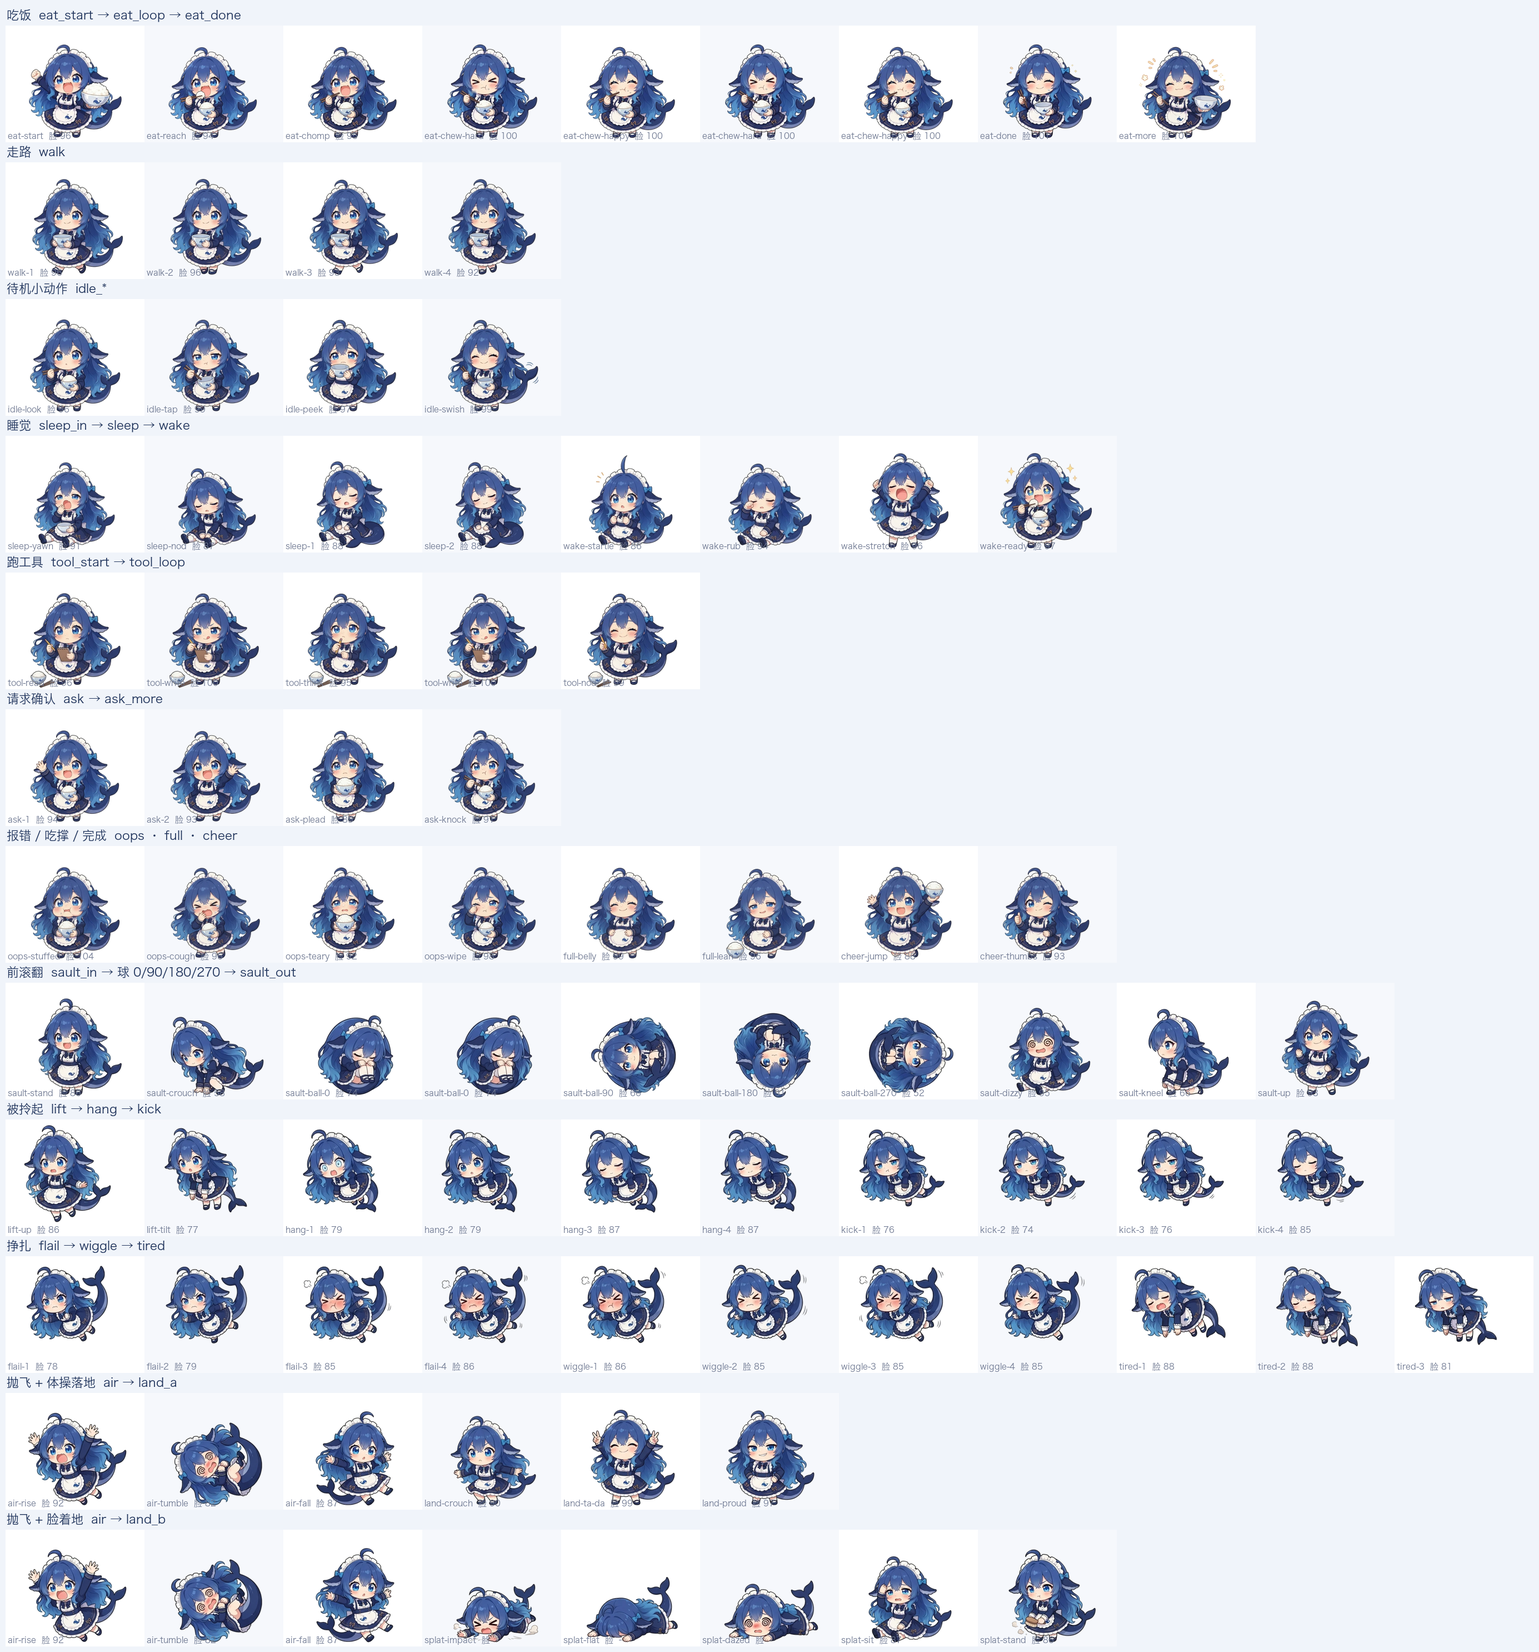
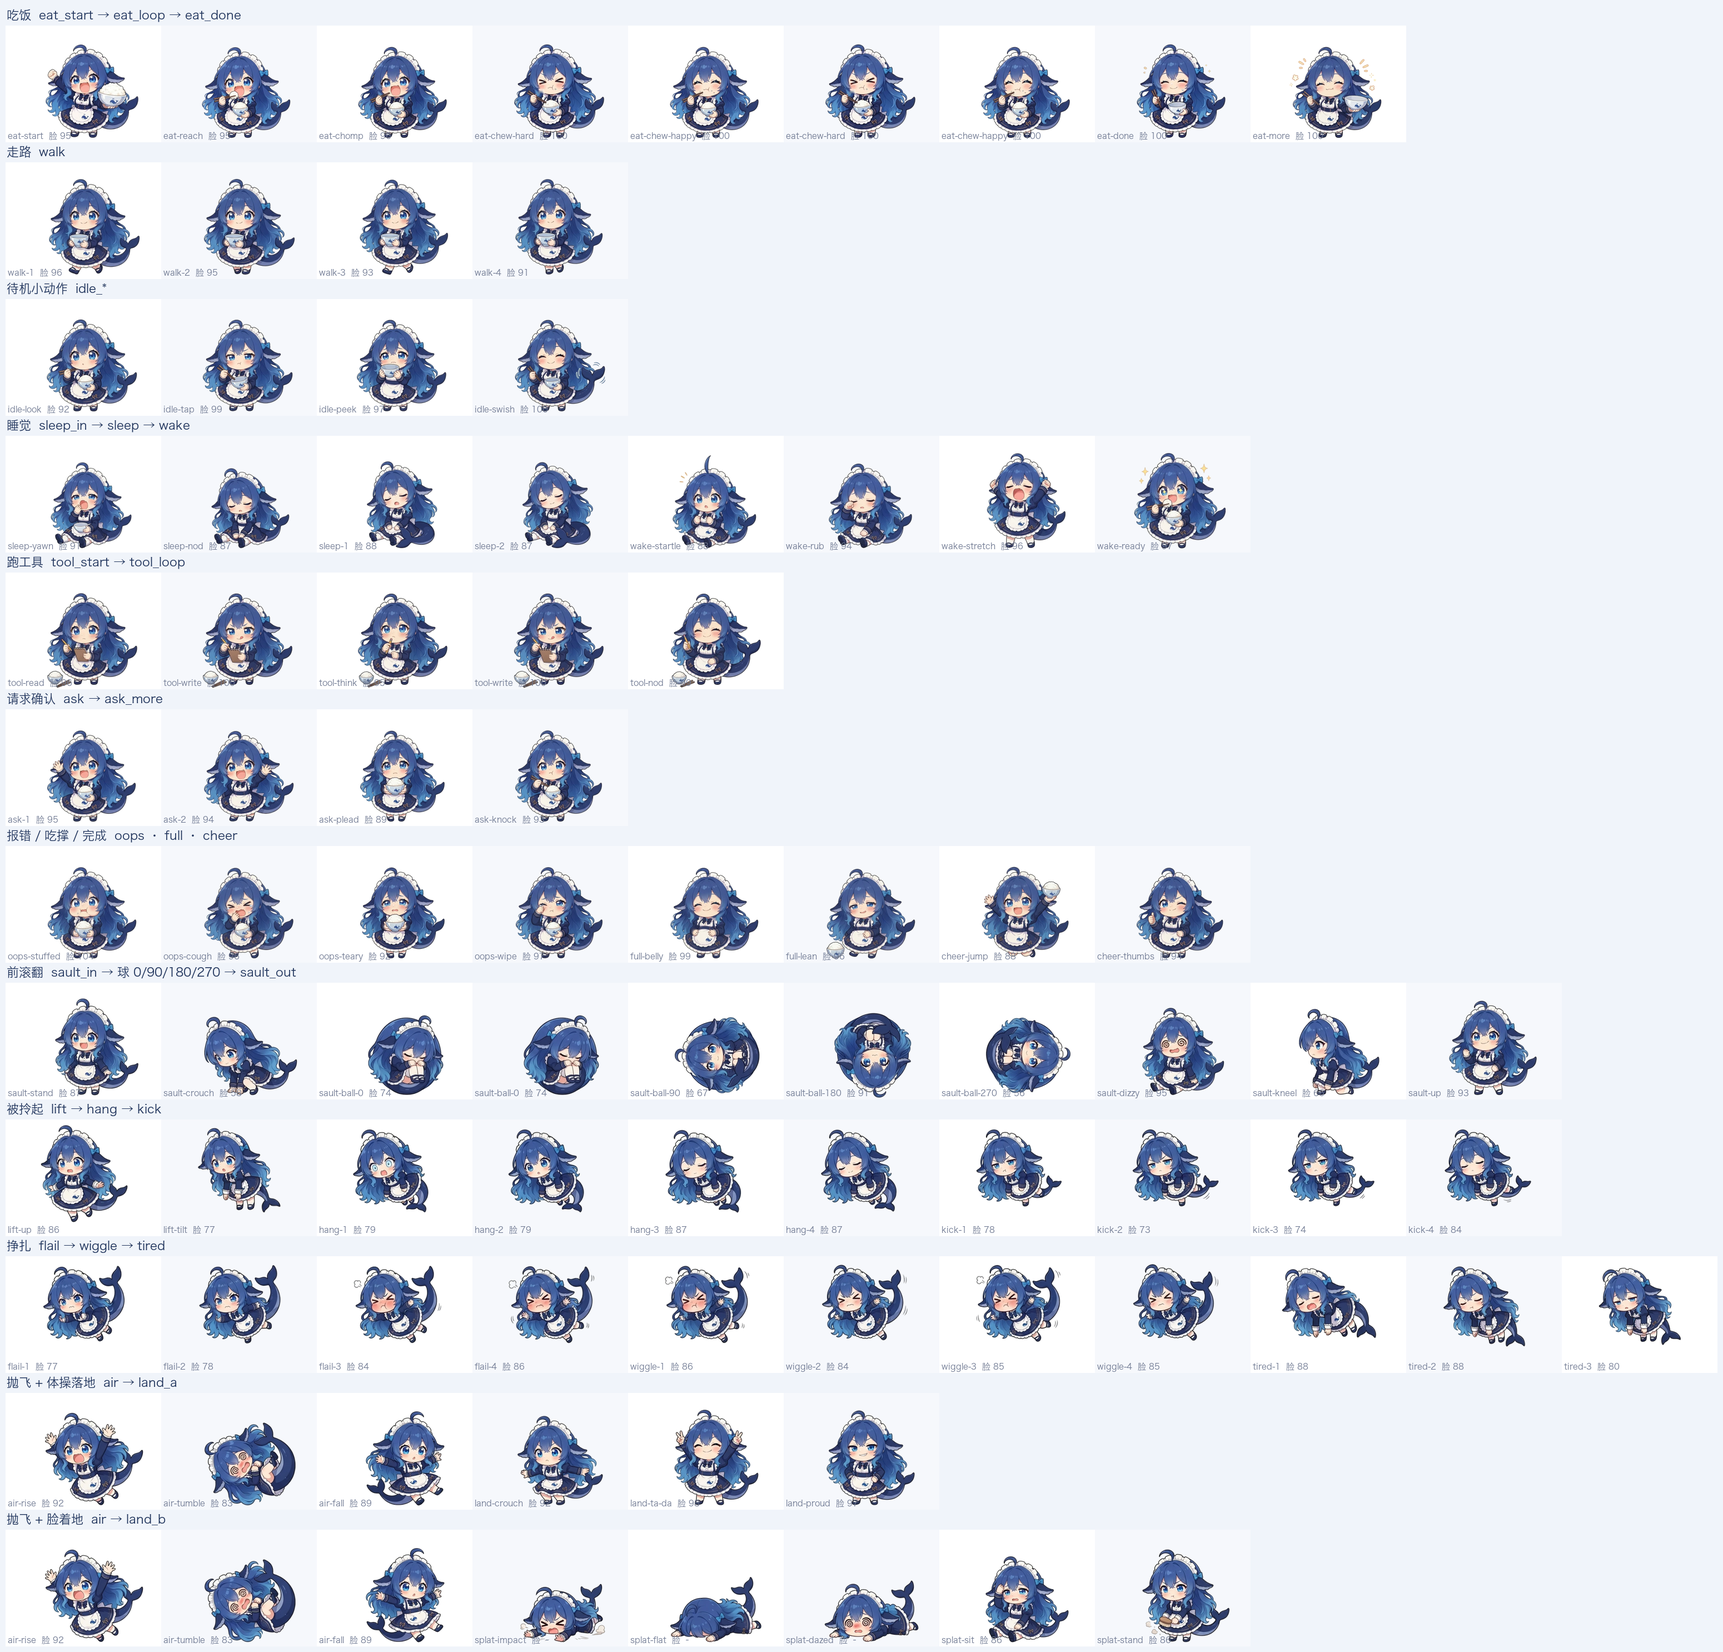
feat: 大肥鱼跑路了

diff --git a/src/shared/whale.ts b/src/shared/whale.ts
@@ -13,13 +13,19 @@
  */
 import type { Activity } from './feed.ts'
 import type { RegionSource } from './region.ts'
-import { anim, CELL, PIN, POSE, ROLL_FACING, SPIN, Sprite, WALK_FACING, type AnimName, type Steps } from './sprite.ts'
+import { anim, animDuration, CELL, PIN, POSE, ROLL_FACING, RUN_FACING, SPIN, Sprite, WALK_FACING, type AnimName, type Steps } from './sprite.ts'
 import { Emotion, type EmotionEvent, type Mood } from './emotion.ts'
 import { Flight, Pendulum, PointerVelocity } from './toss.ts'
 
 const SCALE = 0.42
 const W = CELL.w * SCALE, H = CELL.h * SCALE
-const WALK_SPEED = 55                    // px per second
+const GAITS = {
+  walk: { anim: 'walk', speed: 55, facing: WALK_FACING, bob: 0 },
+  run:  { anim: 'run', speed: 150, facing: RUN_FACING, bob: 0 },   // bob: extra px of bounce per stride (the frames carry their own)
+} as const
+type Gait = keyof typeof GAITS
+const RUN_WHEN_HAPPY = 0.6               // chance to run instead of walk when she is in a good mood
+const RUN_ANYWAY = 0.12                  // …and when she isn't
 const ROLL_TURNS = 1                     // full turns of the ball per somersault
 const QUARTER_MS = 170                   // time per quarter turn (one drawn angle)
 const ROLL_DISTANCE = ROLL_TURNS * 2 * Math.PI * SPIN.radius * SCALE   // wheel: distance = angle × radius
@@ -287,34 +293,40 @@ export class Whale {
       if (!this.reducedMotion && Math.random() < 0.55) {
         if (Math.random() < ROLL_CHANCE && this.roll()) return
         const r = this.regions.rect()
-        return this.walkTo(r.left + Math.random() * Math.max(0, r.width - W), r.top + Math.random() * Math.max(0, r.height - H))
+        const happy = this.emotion.valence >= 0.15
+        const gait: Gait = Math.random() < (happy ? RUN_WHEN_HAPPY : RUN_ANYWAY) ? 'run' : 'walk'
+        return this.walkTo(r.left + Math.random() * Math.max(0, r.width - W), r.top + Math.random() * Math.max(0, r.height - H), gait)
       }
       void this.runReaction({ anim: IDLE_GESTURES[Math.floor(Math.random() * IDLE_GESTURES.length)] })
     }, 6000 + Math.random() * 8000)
   }
 
-  private walkTo(tx: number, ty: number): void {
+  private walkTo(tx: number, ty: number, gait: Gait = 'walk'): void {
     const { token } = this.begin('walking')
+    const g = GAITS[gait]
     const from = { ...this.pos }
     const dist = Math.hypot(tx - from.x, ty - from.y)
     if (dist < 4) return this.toIdle()
-    // Mirror the walk frames when she heads the other way from how they were drawn.
+    // Mirror the frames when she heads the other way from how they were drawn.
     const goingLeft = tx < from.x
-    this.root.classList.toggle('wr-flip', WALK_FACING === 'left' ? !goingLeft : goingLeft)
-    void (async () => { while (await this.play(token, anim('walk'))) { /* keep stepping */ } })()
-    const duration = (dist / WALK_SPEED) * 1000
+    this.root.classList.toggle('wr-flip', g.facing === 'left' ? !goingLeft : goingLeft)
+    void (async () => { while (await this.play(token, anim(g.anim))) { /* keep stepping */ } })()
+    const duration = (dist / g.speed) * 1000
+    const stride = animDuration(g.anim) / 2           // two leaps per cycle
     const t0 = performance.now()
     const frame = (now: number): void => {
       if (!this.alive(token)) return
       const t = Math.min(1, (now - t0) / duration)
       this.pos.x = from.x + (tx - from.x) * t
       this.pos.y = from.y + (ty - from.y) * t
-      this.render(0)
+      // A bouncy gait rises once per stride, in step with the drawn leaps.
+      this.render(g.bob * Math.abs(Math.sin((Math.PI * (now - t0)) / stride)))
       if (t < 1) this.raf = requestAnimationFrame(frame)
       else this.toIdle()
     }
     this.raf = requestAnimationFrame(frame)
   }
+
 
   /** Somersault sideways (given or random direction) if the region has room; false if she can't. */
   roll(direction?: 'left' | 'right'): boolean {

diff --git a/dev/index.html b/dev/index.html
@@ -28,6 +28,8 @@
   <button id="long">长任务完成（cheer）</button>
   <button id="spend">余额变少（回复结束）</button>
   <button id="topup">余额变多 ¥10</button>
+  <button id="runL">向左跑</button>
+  <button id="runR">向右跑</button>
   <button id="rollL">向左打滚</button>
   <button id="rollR">向右打滚</button>
   <button id="unload">卸载插件</button>
@@ -78,6 +80,10 @@
   document.getElementById('topup').onclick = async () => { await call('/dev/topup'); await call('/dev/turn-end'); log('topped up') }
   // The page is opened with ?whale-debug so the client exposes window.__whale.
   if (!location.search.includes('whale-debug')) history.replaceState(null, '', '?whale-debug')
+  // Dev-only: drive the (private) gait directly to see the run without waiting for a good mood.
+  const runTo = (side) => { const w = window.__whale, r = w.regions.rect(); w.walkTo(side === 'left' ? r.left : r.right - 235, w.pos.y, 'run'); log('run ' + side) }
+  document.getElementById('runL').onclick = () => runTo('left')
+  document.getElementById('runR').onclick = () => runTo('right')
   document.getElementById('rollL').onclick = () => log(window.__whale?.roll('left') ? 'roll left' : 'no room to the left')
   document.getElementById('rollR').onclick = () => log(window.__whale?.roll('right') ? 'roll right' : 'no room to the right')
   document.getElementById('unload').onclick = () => { disposers.splice(0).forEach(d => d()); log('unloaded') }

diff --git a/src/shared/sprite.ts b/src/shared/sprite.ts
@@ -11,6 +11,8 @@ export const ATLAS = `${meta.image}?v=${meta.version}`
 export const POSE = meta.poses
 /** Which way the walk frames face as drawn; the other direction is mirrored. */
 export const WALK_FACING = meta.walkFacing as 'left' | 'right'
+/** Which way the run frames face as drawn. */
+export const RUN_FACING = meta.runFacing as 'left' | 'right'
 /** Which way the somersault travels as drawn. */
 export const ROLL_FACING = meta.rollFacing as 'left' | 'right'
 /** The curled-up ball at 0/90/180/270° (rolling direction), its shared pivot and rolling radius (cell px). */
@@ -54,6 +56,11 @@ export class Sprite {
     this.cancel?.()
     this.cancel = undefined
   }
+}
+
+/** Length of one cycle of a named animation, ms. */
+export function animDuration(name: AnimName): number {
+  return meta.animations[name].durations.reduce((a: number, b: number) => a + b, 0)
 }
 
 /** Expand a named animation into steps, optionally repeated. */

diff --git a/art/batch5/walk-to-run/compose.py b/art/batch5/walk-to-run/compose.py
@@ -1,0 +1,111 @@
+"""Compose the 4-frame bowl run from one shared upper body + two Gemini leg poses.
+
+    python3 -I art/batch5/walk-to-run/compose.py   (from the repo root)
+
+- Everything above the skirt hem comes from run-1.jpeg, so the bowl and the rice never move.
+- legs/leg-1.jpeg (stride) and legs/leg-2c.jpeg (passing) supply the legs for frames 1 and 2.
+- Frames 3 and 4 reuse those legs with the near/far shading swapped: the leg that was in front
+  becomes the darker far leg, which is how a side-view run shows the other foot leading.
+Polygons are in source-image pixels (979x1024, all edits share run-1's framing).
+"""
+from pathlib import Path
+
+import numpy as np
+from PIL import Image, ImageDraw, ImageFilter
+
+HERE = Path(__file__).parent
+W, H = 979, 1024
+
+
+def disp(points):   # grid sketches were drawn at 2x over the crop starting at (200, 820)
+    return [(200 + x / 2, 820 + y / 2) for x, y in points]
+
+
+# below the hem and under the tail: cleared of run-1's legs before the new ones go in
+LEG_ZONE = disp([(0, 15), (90, 15), (200, 45), (300, 80), (400, 100), (500, 100), (580, 95), (660, 85),
+                 (720, 40), (760, 62), (845, 72), (900, 70), (1000, 60), (1100, 0),
+                 (1400, 0), (1400, 400), (0, 400)])
+STRIDE_FRONT = disp([(195, 30), (260, 58), (345, 95), (300, 190), (285, 280), (200, 285), (70, 200),
+                     (80, 145), (150, 135), (185, 60)])
+BACK = disp([(585, 95), (650, 88), (720, 40), (790, 0), (840, 0), (862, 60), (868, 140),
+             (820, 170), (765, 155), (740, 128), (620, 132)])
+PASS_SUPPORT = disp([(375, 95), (535, 88), (540, 200), (538, 290), (365, 305), (350, 265), (390, 230),
+                     (390, 150)])
+
+
+def mask(poly, feather=1.5):
+    m = Image.new("L", (W, H), 0)
+    ImageDraw.Draw(m).polygon(poly, fill=255)
+    return m.filter(ImageFilter.GaussianBlur(feather))
+
+
+def darken(rgb):
+    """The far leg: a cool shadow, as if behind the near one."""
+    return rgb * 0.62 + np.array([12, 16, 48])
+
+
+def legless_base():
+    """run-1 with its legs removed. Its back shoe sits in front of the tail, so the tail behind
+    it is rebuilt row by row from the column just right of the shoe, leftwards until the row
+    reaches the skirt's frill or her thigh (so the tail's end tucks behind them)."""
+    base = np.asarray(Image.open(HERE / "run-1.jpeg").convert("RGB")).astype(float)
+    zone = np.asarray(mask(LEG_ZONE, 0)).astype(float)[..., None] / 255
+    out = base * (1 - zone) + 255 * zone
+    for y in range(806, 862):
+        tail = out[y, 632].copy()
+        if tail.min() > 200:            # below the tail's outline: nothing to rebuild
+            continue
+        for x in range(631, 500, -1):
+            r, g, b = base[y, x]
+            frill = min(r, g, b) > 200 and max(r, g, b) - min(r, g, b) < 40 and zone[y, x, 0] < 0.5
+            skin = r > b + 40                          # her thigh under the hem stays
+            if frill or skin:
+                break
+            out[y, x] = tail
+    return out
+
+
+def shifted(a, dx, dy, fill):
+    out = np.full_like(a, float(fill))
+    h, w = a.shape[:2]
+    out[max(dy, 0):h + min(dy, 0), max(dx, 0):w + min(dx, 0)] = a[max(-dy, 0):h - max(dy, 0), max(-dx, 0):w - max(dx, 0)]
+    return out
+
+
+# The swing leg while passing: Gemini keeps drawing a foot parked behind the body, which then
+# hangs in the same spot every frame. Instead the support leg is copied, lifted and tucked
+# just behind itself, so only the raised shoe peeks out.
+TUCK = (22, -42)
+
+
+def frame(legs_img, near, far):
+    """near/far: (polygon, (dx, dy)) pieces of legs_img; far is shaded and drawn first."""
+    legs = np.asarray(Image.open(HERE / legs_img).convert("RGB")).astype(float)
+    zone = np.asarray(mask(LEG_ZONE, 0)).astype(float)[..., None] / 255
+    out = legless_base()
+    for (poly, (dx, dy)), shade in ((far, True), (near, False)):   # far first, near on top
+        m = np.asarray(mask(poly)).astype(float)[..., None] / 255   # may reach up behind the tail
+        src = darken(legs) if shade else legs
+        if dx or dy:   # a moved copy stays under the hem
+            m, src = shifted(m, dx, dy, 0) * zone, shifted(src, dx, dy, 255)
+        out = out * (1 - m) + src * m
+    return Image.fromarray(np.clip(out, 0, 255).astype("uint8"))
+
+
+STAY = (0, 0)
+frames = [
+    frame("legs/leg-1.jpeg", near=(STRIDE_FRONT, STAY), far=(BACK, STAY)),           # near foot leads
+    frame("legs/leg-2c.jpeg", near=(PASS_SUPPORT, STAY), far=(PASS_SUPPORT, TUCK)),  # near supports, far swings
+    frame("legs/leg-1.jpeg", near=(BACK, STAY), far=(STRIDE_FRONT, STAY)),           # far foot leads
+    frame("legs/leg-2c.jpeg", near=(PASS_SUPPORT, TUCK), far=(PASS_SUPPORT, STAY)),  # far supports, near swings
+]
+for k, f in enumerate(frames, 1):
+    f.save(HERE / f"final-{k}.png")
+
+# 2x2 sheet for the sprite builder
+pad = 120
+sheet = Image.new("RGB", ((W + pad) * 2, (H + pad) * 2), "white")
+for k, f in enumerate(frames):
+    sheet.paste(f, ((k % 2) * (W + pad) + pad // 2, (k // 2) * (H + pad) + pad // 2))
+sheet.save(HERE.parent / "run-walkbased.png")
+print("wrote final-1..4.png and batch5/run-walkbased.png")

diff --git a/scripts/sprites/build_sprites.py b/scripts/sprites/build_sprites.py
@@ -73,7 +73,10 @@ def split(rgb: np.ndarray, grid: list[int] | None) -> list[tuple[int, int, np.nd
     by_cell: dict[int, list[np.ndarray]] = {}
     for c in blobs:
         ys, xs = np.nonzero(c)
-        if ys.max() - ys.min() <= 8 and xs.max() - xs.min() >= 40:   # a drawn floor line: not the character
+        bh, bw = ys.max() - ys.min() + 1, xs.max() - xs.min() + 1
+        thin_line = (bh <= 9 and bw >= 40) or (bw <= 9 and bh >= 40)   # drawn floor / panel divider
+        grid_frame = bw >= w * 0.9 or bh >= h * 0.9                      # a divider spanning the sheet
+        if thin_line or grid_frame and c.sum() < 0.03 * h * w:
             owner[c] = -2
             continue
         cell = min(int(ys.mean() * rows / h), rows - 1) * cols + min(int(xs.mean() * cols / w), cols - 1)
@@ -82,8 +85,9 @@ def split(rgb: np.ndarray, grid: list[int] | None) -> list[tuple[int, int, np.nd
     cells = []
     for cell in range(cols * rows):
         mine = by_cell.get(cell)
-        if not mine:
-            sys.exit(f"grid cell {cell} is empty — check the grid size in the manifest")
+        if not mine:                       # an empty panel (list it as null in "frames")
+            cells.append((0, 0, None))
+            continue
         ys, xs = np.nonzero(np.logical_or.reduce(mine))
         pad = 6
         y0, y1 = max(0, ys.min() - pad), min(h, ys.max() + pad + 1)
@@ -289,6 +293,8 @@ def main(manifest_path: Path) -> None:
         for k, ((x0, y0, crop), fid) in enumerate(zip(split(rgb, src.get("grid")), ids_here)):
             if fid is None:
                 continue
+            if crop is None:
+                sys.exit(f"{src['file']}: panel {k + 1} is empty but is listed as {fid}")
             row = k // src["grid"][0] if src.get("grid") else 0
             rgba = cut_out(crop)
             if src.get("floorLines"):
@@ -372,6 +378,14 @@ def main(manifest_path: Path) -> None:
                     scale[f] = sheet_scale
     # "scaleAdjust": a manual factor for sheets the measurements misjudge (e.g. bangs hiding the
     # face in a hanging pose); tuned by eye against a neighbouring sheet.
+    # "uniform": a cycle (running) must keep the size and rise/fall the artist drew between its frames,
+    # so the whole sheet shares one scale — the median of its frames' individual scales.
+    for src, frames in sources:
+        if src.get("uniform"):
+            k = float(np.median([scale[f] for f, _, _ in frames if f in scale]))
+            for f, _, _ in frames:
+                scale[f] = k
+
     # "frameScale": the same, per frame (a few panels drawn with a smaller head than their neighbours).
     for src, frames in sources:
         for f, _, _ in frames:
@@ -388,13 +402,19 @@ def main(manifest_path: Path) -> None:
               for spec in cfg.get("pins", {}).values() for fid in expand(spec["frames"])}
     cells, ids = [], []
     for src, frames in sources:
-        floor = {}
+        airborne = set(expand(src.get("airborne", [])))
+        floor, any_floor = {}, {}
         for fid, _, m in frames:
-            if fid not in src.get("airborne", []):
+            any_floor[m["row"]] = max(any_floor.get(m["row"], 0), m["bottom"])
+            if fid not in airborne:
                 floor[m["row"]] = max(floor.get(m["row"], 0), m["bottom"])
         for fid, rgba, m in frames:
-            ground = floor.get(m["row"], m["bottom"]) if fid in src.get("airborne", []) else m["bottom"]
-            cells.append(place(rgba, m, scale[fid], ground, cfg, fid, pinned.get(fid)))
+            # an airborne frame keeps its height above its row's floor line (the lowest foot in the
+            # row when every frame of a cycle is listed)
+            ground = floor.get(m["row"], any_floor[m["row"]]) if fid in airborne else m["bottom"]
+            # "raise": {frame: px} lifts a grounded frame off the floor (a flight pose drawn standing)
+            lift = src.get("raise", {}).get(fid, 0)
+            cells.append(place(rgba, m, scale[fid], ground + lift / scale[fid], cfg, fid, pinned.get(fid)))
             ids.append(fid)
     if len(set(ids)) != len(ids):
         sys.exit("duplicate frame ids in manifest")
@@ -465,6 +485,7 @@ def main(manifest_path: Path) -> None:
         "poses": {k: index[v] for k, v in cfg["poses"].items()},
         "walkFacing": cfg.get("walkFacing", "right"),   # which way the walk frames face as drawn
         "rollFacing": cfg.get("rollFacing", "left"),    # which way the roll moves as drawn
+        "runFacing": cfg.get("runFacing", "left"),      # which way the run frames face as drawn
         "animations": animations,
         "spin": spin,
         "pins": pins,

diff --git a/README.md b/README.md
@@ -72,7 +72,7 @@ image model drew at a different size within one grid.
 | approval pending (`approval/asked` → `approval/decided`) | waves at you; after 8s pleads and knocks on her bowl |
 | turn ends with `error` / `max-tokens` | chokes / holds her full belly |
 | a turn of 20s+ completes | jumps and gives a thumbs-up |
-| idle | walks or somersaults (rolls like a wheel: distance = angle × radius) around her area, little gestures, naps after 5 minutes |
+| idle | walks, happily runs with her rice bowl (mostly when she's in a good mood), or somersaults (rolls like a wheel: distance = angle × radius) around her area, little gestures, naps after 5 minutes |
 | picked up (drag) | dangles from the scruff under a pinching cursor and swings like a pendulum; struggles after 2.5 s, then goes limp |
 | afterwards (moods) | an emotion model (`src/shared/emotion.ts`): every event adds a fixed impulse to *valence* (unhappy…happy), *arousal* (drained…worked up) and *need* (wants attention), which decay on their own; the mood is the region she is in — sulk, wary, gloom, smug, expect (praise me), sleepy. Repeated events stack, nice events only soften a bad mood, and happy endings (gymnast pose, cheering) are skipped if she ends up upset. New behaviour = one row in the event table |
 | thrown (release while moving) | flies under gravity, bounces off screen edges and tumbles; lands like a gymnast if she comes down upright, otherwise face-plants; walks back if she lands outside her area |
